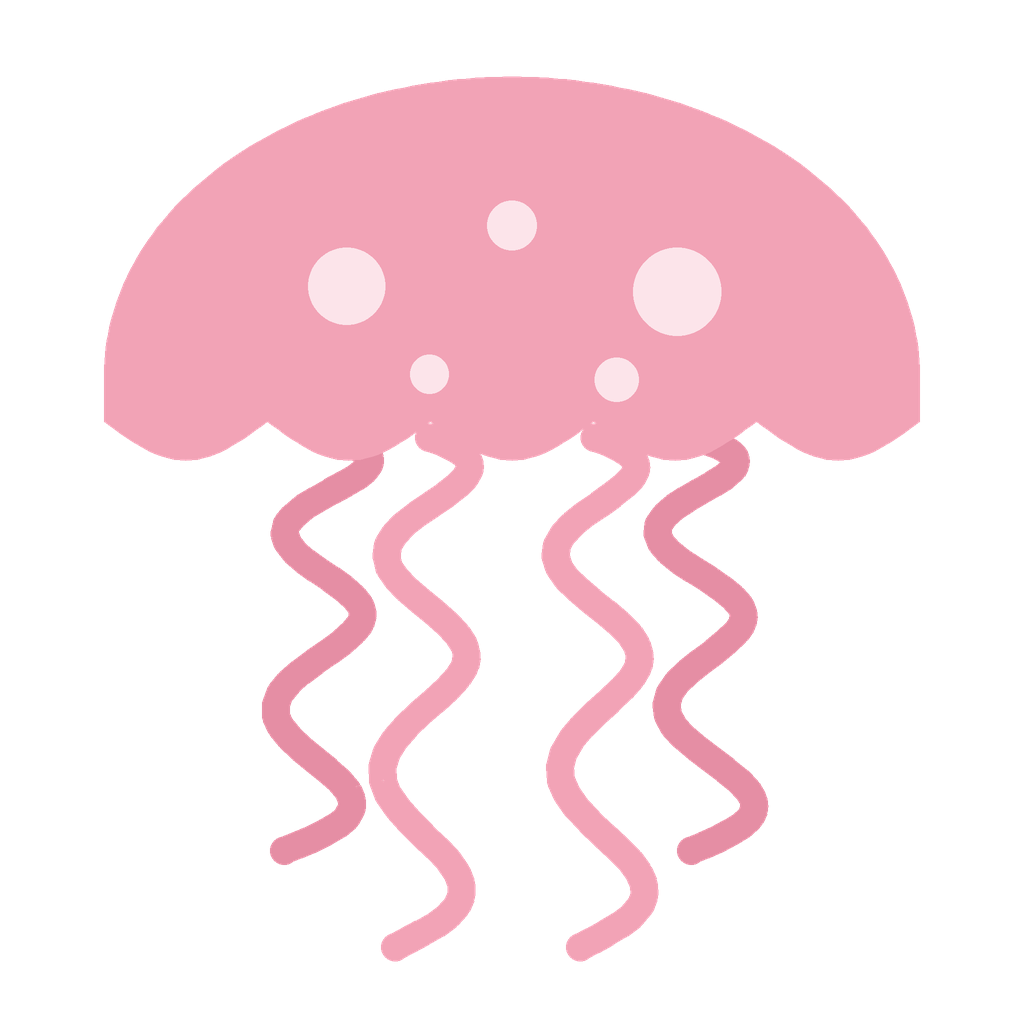
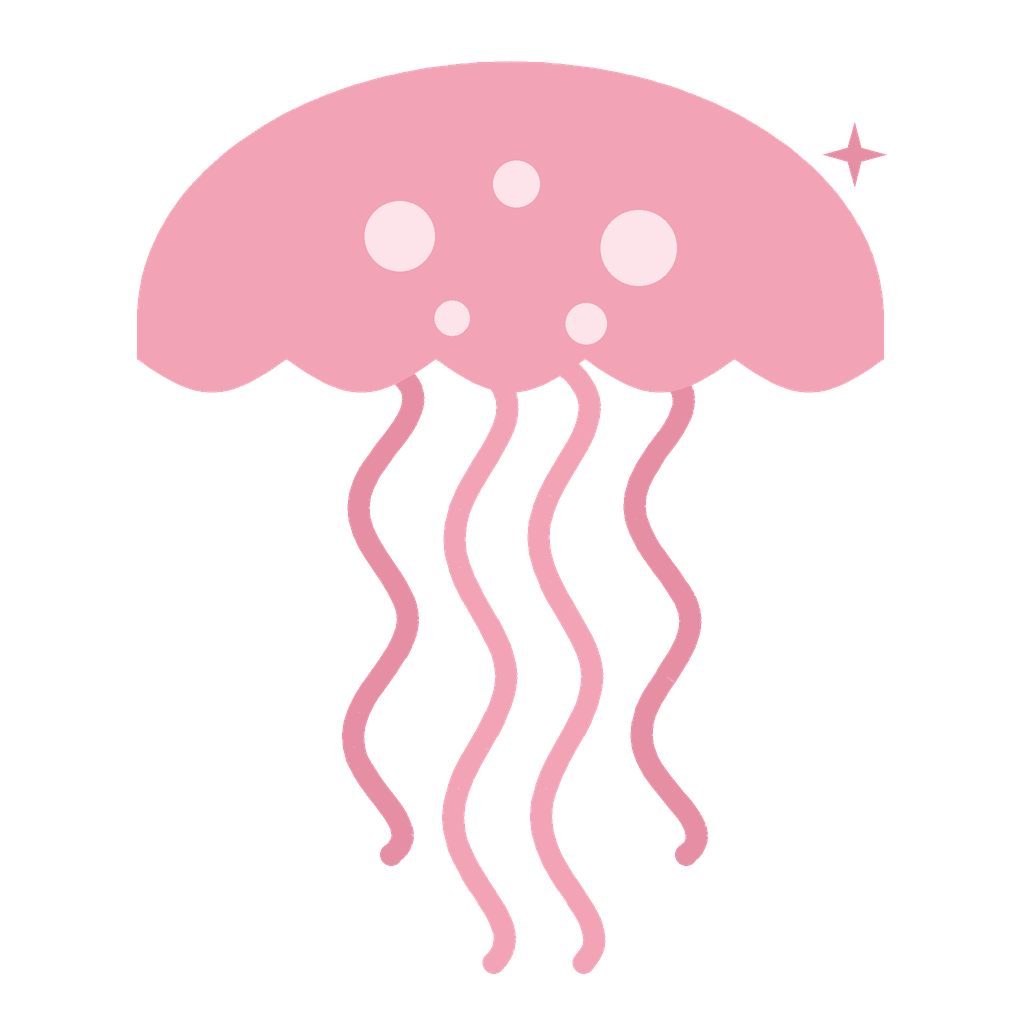
Brand: horizontal lockup with a small jellyfish
The vertical version with the creature wrapped around the name took too much
room and read as a poster. Now it is a wordmark with a small mascot:

- jellyfish on the left, name on the right, aligned to the optical centre of
  the lowercase word instead of the canvas centre
- simpler creature: bell, spots, four short tentacles; the wrapping loop is gone
- icon is the jellyfish alone with a sparkle, centred in a square
- canvas is ~2.3:1, so it fits a README header without a tall block

diff --git a/tools/build_brand.py b/tools/build_brand.py
@@ -1,8 +1,8 @@
-"""Build the ozure brand: a kawaii jellyfish wrapping the name.
+"""Build the ozure brand: a small kawaii jellyfish next to the name.
 
-The mascot is the logo: a faceless jellyfish — spotted bell, ruffled hem — whose
-two long tentacles fall past the wordmark and close underneath it, so the name
-sits inside the creature instead of next to it.
+A horizontal lockup — the creature on the left, the wordmark on the right — so
+it fits a README header, a repo avatar and a terminal title bar without a big
+vertical block.
 
 One geometry description, two renderers (SVG + Pillow), transparent background
 everywhere so it can sit on any page:
@@ -49,9 +49,12 @@ CREAM = "#fff9f7"
 INK = "#2c2f38"
 WHITE = "#ffffff"
 
-WIDTH, HEIGHT = 512, 600
-NAME_SIZE = 84
-NAME_BASELINE = 512
+# Horizontal layout: a small jellyfish, then the name.
+NAME_SIZE = 92
+NAME_BASELINE = 128
+JELLY_HEIGHT = 138
+NAME_GAP = 30
+MARGIN = 26
 
 Shape = dict[str, Any]
 
@@ -170,101 +173,84 @@ def bell_points(
     return points
 
 
-def mascot_shapes(
+def jelly_shapes(
     *,
     body: str = PETAL,
     tentacle_colour: str = PETAL_DEEP,
     spot: str = BLUSH,
-    sparkle: str = PETAL_DEEP,
-    with_sparkles: bool = True,
-    with_wrap: bool = True,
+    with_sparkles: bool = False,
+    with_tentacles: bool = True,
 ) -> list[Shape]:
-    """A kawaii jellyfish with no face: spotted bell, ruffled hem, and tentacles
-    that fall behind the name and curl around its ends."""
+    """A small, faceless kawaii jellyfish, drawn in a 300x330 box.
+
+    Simple on purpose: a spotted bell with a ruffled hem and four short, wavy
+    tentacles. No face, no wrapping loop — in a horizontal lockup the creature
+    sits next to the name, not around it.
+    """
     shapes: list[Shape] = []
 
-    # inner tentacles: short, and they stop above the wordmark
-    for x, length, colour in (
-        (190, 150, tentacle_colour),
-        (226, 185, body),
-        (286, 185, body),
-        (322, 150, tentacle_colour),
-    ):
-        shapes.append(
-            {
-                "type": "polyline",
-                "points": tentacle(
-                    [
-                        (x, 195),
-                        (x + (x - 256) * 0.05, 195 + length * 0.45),
-                        (x + (x - 256) * 0.12, 195 + length),
-                    ],
-                    15,
-                    2.6,
-                ),
-                "stroke": colour,
-                "width": 14,
-            }
-        )
+    if with_tentacles:
+        for x, length, colour in (
+            (108, 168, tentacle_colour),
+            (140, 205, body),
+            (168, 205, body),
+            (200, 168, tentacle_colour),
+        ):
+            shapes.append(
+                {
+                    "type": "polyline",
+                    "points": tentacle(
+                        [
+                            (x, 112),
+                            (x + (x - 150) * 0.05, 112 + length * 0.5),
+                            (x + (x - 150) * 0.1, 112 + length),
+                        ],
+                        9,
+                        2.4,
+                    ),
+                    "stroke": colour,
+                    "width": 11,
+                }
+            )
 
-    # bell
-    shapes.append({"type": "polygon", "points": bell_points(256, 172, 148, 108), "fill": body})
-    for sx, sy, radius in (
-        (196, 140, 14),
-        (256, 118, 9),
-        (316, 142, 16),
-        (226, 172, 7),
-        (294, 174, 8),
-    ):
+    shapes.append({"type": "polygon", "points": bell_points(150, 96, 128, 88), "fill": body})
+    for sx, sy, radius in ((112, 68, 12), (152, 50, 8), (194, 72, 13), (130, 96, 6), (176, 98, 7)):
         shapes.append({"type": "circle", "c": (sx, sy), "r": radius, "fill": spot})
 
-    # the two long tentacles that wrap the name (off for the square icon)
-    if with_wrap:
-        shapes.append(
-            {
-                "type": "polyline",
-                "points": tentacle(
-                    [
-                        (114, 188),
-                        (96, 285),
-                        (106, 390),
-                        (122, 470),
-                        (140, 528),
-                        (190, 554),
-                        (256, 558),
-                    ],
-                    7,
-                    2.0,
-                ),
-                "stroke": tentacle_colour,
-                "width": 15,
-            }
-        )
-        shapes.append(
-            {
-                "type": "polyline",
-                "points": tentacle(
-                    [
-                        (398, 188),
-                        (416, 285),
-                        (406, 390),
-                        (390, 470),
-                        (372, 528),
-                        (322, 554),
-                        (256, 558),
-                    ],
-                    7,
-                    2.0,
-                ),
-                "stroke": tentacle_colour,
-                "width": 15,
-            }
-        )
-
     if with_sparkles:
-        shapes.append({"type": "polygon", "points": star(432, 214, 13), "fill": sparkle})
-        shapes.append({"type": "polygon", "points": star(80, 250, 9), "fill": sparkle})
+        shapes.append({"type": "polygon", "points": star(268, 40, 11), "fill": tentacle_colour})
     return shapes
+
+
+def place_shapes(shapes: list[Shape], scale: float, left: float, top: float) -> list[Shape]:
+    """Scale the drawing and move its top-left corner to (left, top)."""
+    x0, y0, _, _ = bounds_of(shapes)
+    placed = []
+    for shape in shapes:
+        clone = dict(shape)
+        if clone["type"] == "circle":
+            clone["c"] = (
+                left + (clone["c"][0] - x0) * scale,
+                top + (clone["c"][1] - y0) * scale,
+            )
+            clone["r"] = clone["r"] * scale
+        elif clone["type"] == "rrect":
+            bx0, by0, bx1, by1 = clone["box"]
+            clone["box"] = (
+                left + (bx0 - x0) * scale,
+                top + (by0 - y0) * scale,
+                left + (bx1 - x0) * scale,
+                top + (by1 - y0) * scale,
+            )
+            clone["r"] = clone["r"] * scale
+        else:
+            clone["points"] = [
+                (left + (x - x0) * scale, top + (y - y0) * scale) for x, y in clone["points"]
+            ]
+            if "width" in clone:
+                clone["width"] = clone["width"] * scale
+        placed.append(clone)
+    return placed
 
 
 def shift_shapes(shapes: list[Shape], *, dx: float = 0.0, dy: float = 0.0) -> list[Shape]:
@@ -470,15 +456,17 @@ def draw_shape(draw: ImageDraw.ImageDraw, shape: Shape, scale: float) -> None:
         raise ValueError(shape["type"])
 
 
-def lockup_svg(shapes: list[Shape], glyphs: list[dict], name_colour: str) -> str:
+def lockup_svg(
+    shapes: list[Shape], glyphs: list[dict], name_colour: str, width: float, height: float
+) -> str:
     body = "\n".join(f"  {svg_shape(shape)}" for shape in shapes)
     letters = "\n".join(
         f'  <path fill="{PETAL if glyph["char"] == "o" else name_colour}" d="{glyph["path"]}"/>'
         for glyph in glyphs
     )
-    return f'''<svg xmlns="http://www.w3.org/2000/svg" viewBox="0 0 {WIDTH} {HEIGHT}" width="{WIDTH}" height="{HEIGHT}" role="img" aria-label="ozure">
+    return f'''<svg xmlns="http://www.w3.org/2000/svg" viewBox="0 0 {width:.0f} {height:.0f}" width="{width:.0f}" height="{height:.0f}" role="img" aria-label="ozure">
   <title>ozure</title>
-  <desc>A yuru-kyara axolotl, with the name ozure underneath.</desc>
+  <desc>A small kawaii jellyfish, with the name ozure next to it.</desc>
 {body}
 {letters}
 </svg>
@@ -486,12 +474,17 @@ def lockup_svg(shapes: list[Shape], glyphs: list[dict], name_colour: str) -> str
 
 
 def lockup_png(
-    shapes: list[Shape], glyphs: list[dict], name_colour: str, size: int = 900
+    shapes: list[Shape],
+    glyphs: list[dict],
+    name_colour: str,
+    width: float,
+    height: float,
+    size: int = 900,
 ) -> Image.Image:
-    scale = size / WIDTH
+    scale = size / width
     supersample = 2
-    height = round(HEIGHT * scale)
-    image = Image.new("RGBA", (size * supersample, height * supersample), (0, 0, 0, 0))
+    height_px = round(height * scale)
+    image = Image.new("RGBA", (size * supersample, height_px * supersample), (0, 0, 0, 0))
     draw = ImageDraw.Draw(image)
     for shape in shapes:
         draw_shape(draw, shape, scale * supersample)
@@ -504,7 +497,7 @@ def lockup_png(
             fill=rgb(PETAL if glyph["char"] == "o" else name_colour),
             anchor="ls",
         )
-    return image.resize((size, height), Image.LANCZOS)
+    return image.resize((size, height_px), Image.LANCZOS)
 
 
 def icon_svg(shapes: list[Shape], size: int = 512) -> str:
@@ -559,18 +552,36 @@ def main() -> None:
     font = TTFont(font_path())
     units = font["head"].unitsPerEm
 
-    scale = NAME_SIZE / units
-    total = word_width(font, scale)
-    glyphs = glyph_run(WORD, font, scale=scale, baseline=NAME_BASELINE, left=(WIDTH - total) / 2)
+    # Horizontal lockup: the jellyfish on the left, the name on its right.
+    jelly = jelly_shapes()
+    jx0, jy0, jx1, jy1 = bounds_of(jelly)
+    jelly_scale = JELLY_HEIGHT / (jy1 - jy0)
+    jelly_width = (jx1 - jx0) * jelly_scale
+    name_scale = NAME_SIZE / units
+    total = word_width(font, name_scale)
+    name_left = MARGIN + jelly_width + NAME_GAP
 
-    shapes = mascot_shapes()
-    (ASSETS / "logo.svg").write_text(lockup_svg(shapes, glyphs, INK), encoding="utf-8")
-    lockup_png(shapes, glyphs, INK).save(ASSETS / "logo.png")
-    (ASSETS / "logo-dark.svg").write_text(lockup_svg(shapes, glyphs, CREAM), encoding="utf-8")
-    lockup_png(shapes, glyphs, CREAM).save(ASSETS / "logo-dark.png")
+    glyphs = glyph_run(WORD, font, scale=name_scale, baseline=NAME_BASELINE, left=name_left)
+    # Sit the creature on the optical centre of the lowercase word, not on the
+    # canvas centre: that is what makes the lockup read as one unit.
+    word_top = min(glyph["bounds"][1] for glyph in glyphs if glyph["bounds"])
+    optical_centre = (word_top + NAME_BASELINE) / 2
+    jelly_top = optical_centre - JELLY_HEIGHT / 2
+    height = max(jelly_top + JELLY_HEIGHT, NAME_BASELINE) + MARGIN
+    width = name_left + total + MARGIN
+    placed = place_shapes(jelly, jelly_scale, MARGIN, jelly_top)
 
-    # The avatar is the mascot alone: sparkles would push it off centre.
-    icon = fit_shapes(mascot_shapes(with_sparkles=False, with_wrap=False), 512, padding=0.075)
+    (ASSETS / "logo.svg").write_text(
+        lockup_svg(placed, glyphs, INK, width, height), encoding="utf-8"
+    )
+    lockup_png(placed, glyphs, INK, width, height).save(ASSETS / "logo.png")
+    (ASSETS / "logo-dark.svg").write_text(
+        lockup_svg(placed, glyphs, CREAM, width, height), encoding="utf-8"
+    )
+    lockup_png(placed, glyphs, CREAM, width, height).save(ASSETS / "logo-dark.png")
+
+    # The avatar is the creature alone, centred in a square.
+    icon = fit_shapes(jelly_shapes(with_sparkles=True), 512, padding=0.06)
     (ASSETS / "icon.svg").write_text(icon_svg(icon), encoding="utf-8")
     icon_png(icon).save(ASSETS / "icon.png")
 

diff --git a/README.md b/README.md
@@ -1,7 +1,7 @@
 <p align="center">
   <picture>
     <source media="(prefers-color-scheme: dark)" srcset="assets/logo-dark.png">
-    <img src="assets/logo.png" alt="ozure — a pastel jellyfish wrapping the name" width="270">
+    <img src="assets/logo.png" alt="ozure — a small pastel jellyfish and the name" width="380">
   </picture>
 </p>
 
@@ -107,10 +107,10 @@ a recipe lives. Your own catalog wins on name collisions.
 
 ## Brand
 
-A kawaii jellyfish, no face: spotted bell, ruffled hem, four short tentacles and
-two long ones that fall around the name and close underneath it, holding the
-word. The *o* shares the mascot's pink. Everything is **transparent** — no
-baked-in background — so it drops onto any theme:
+A small kawaii jellyfish, no face: spotted bell, ruffled hem, four short wavy
+tentacles. It sits to the left of the name — a horizontal lockup, not a tall
+block — and the *o* of **ozure** shares the creature's pink. Everything is
+**transparent** — no baked-in background — so it drops onto any theme:
 
 | file | use |
 | --- | --- |
